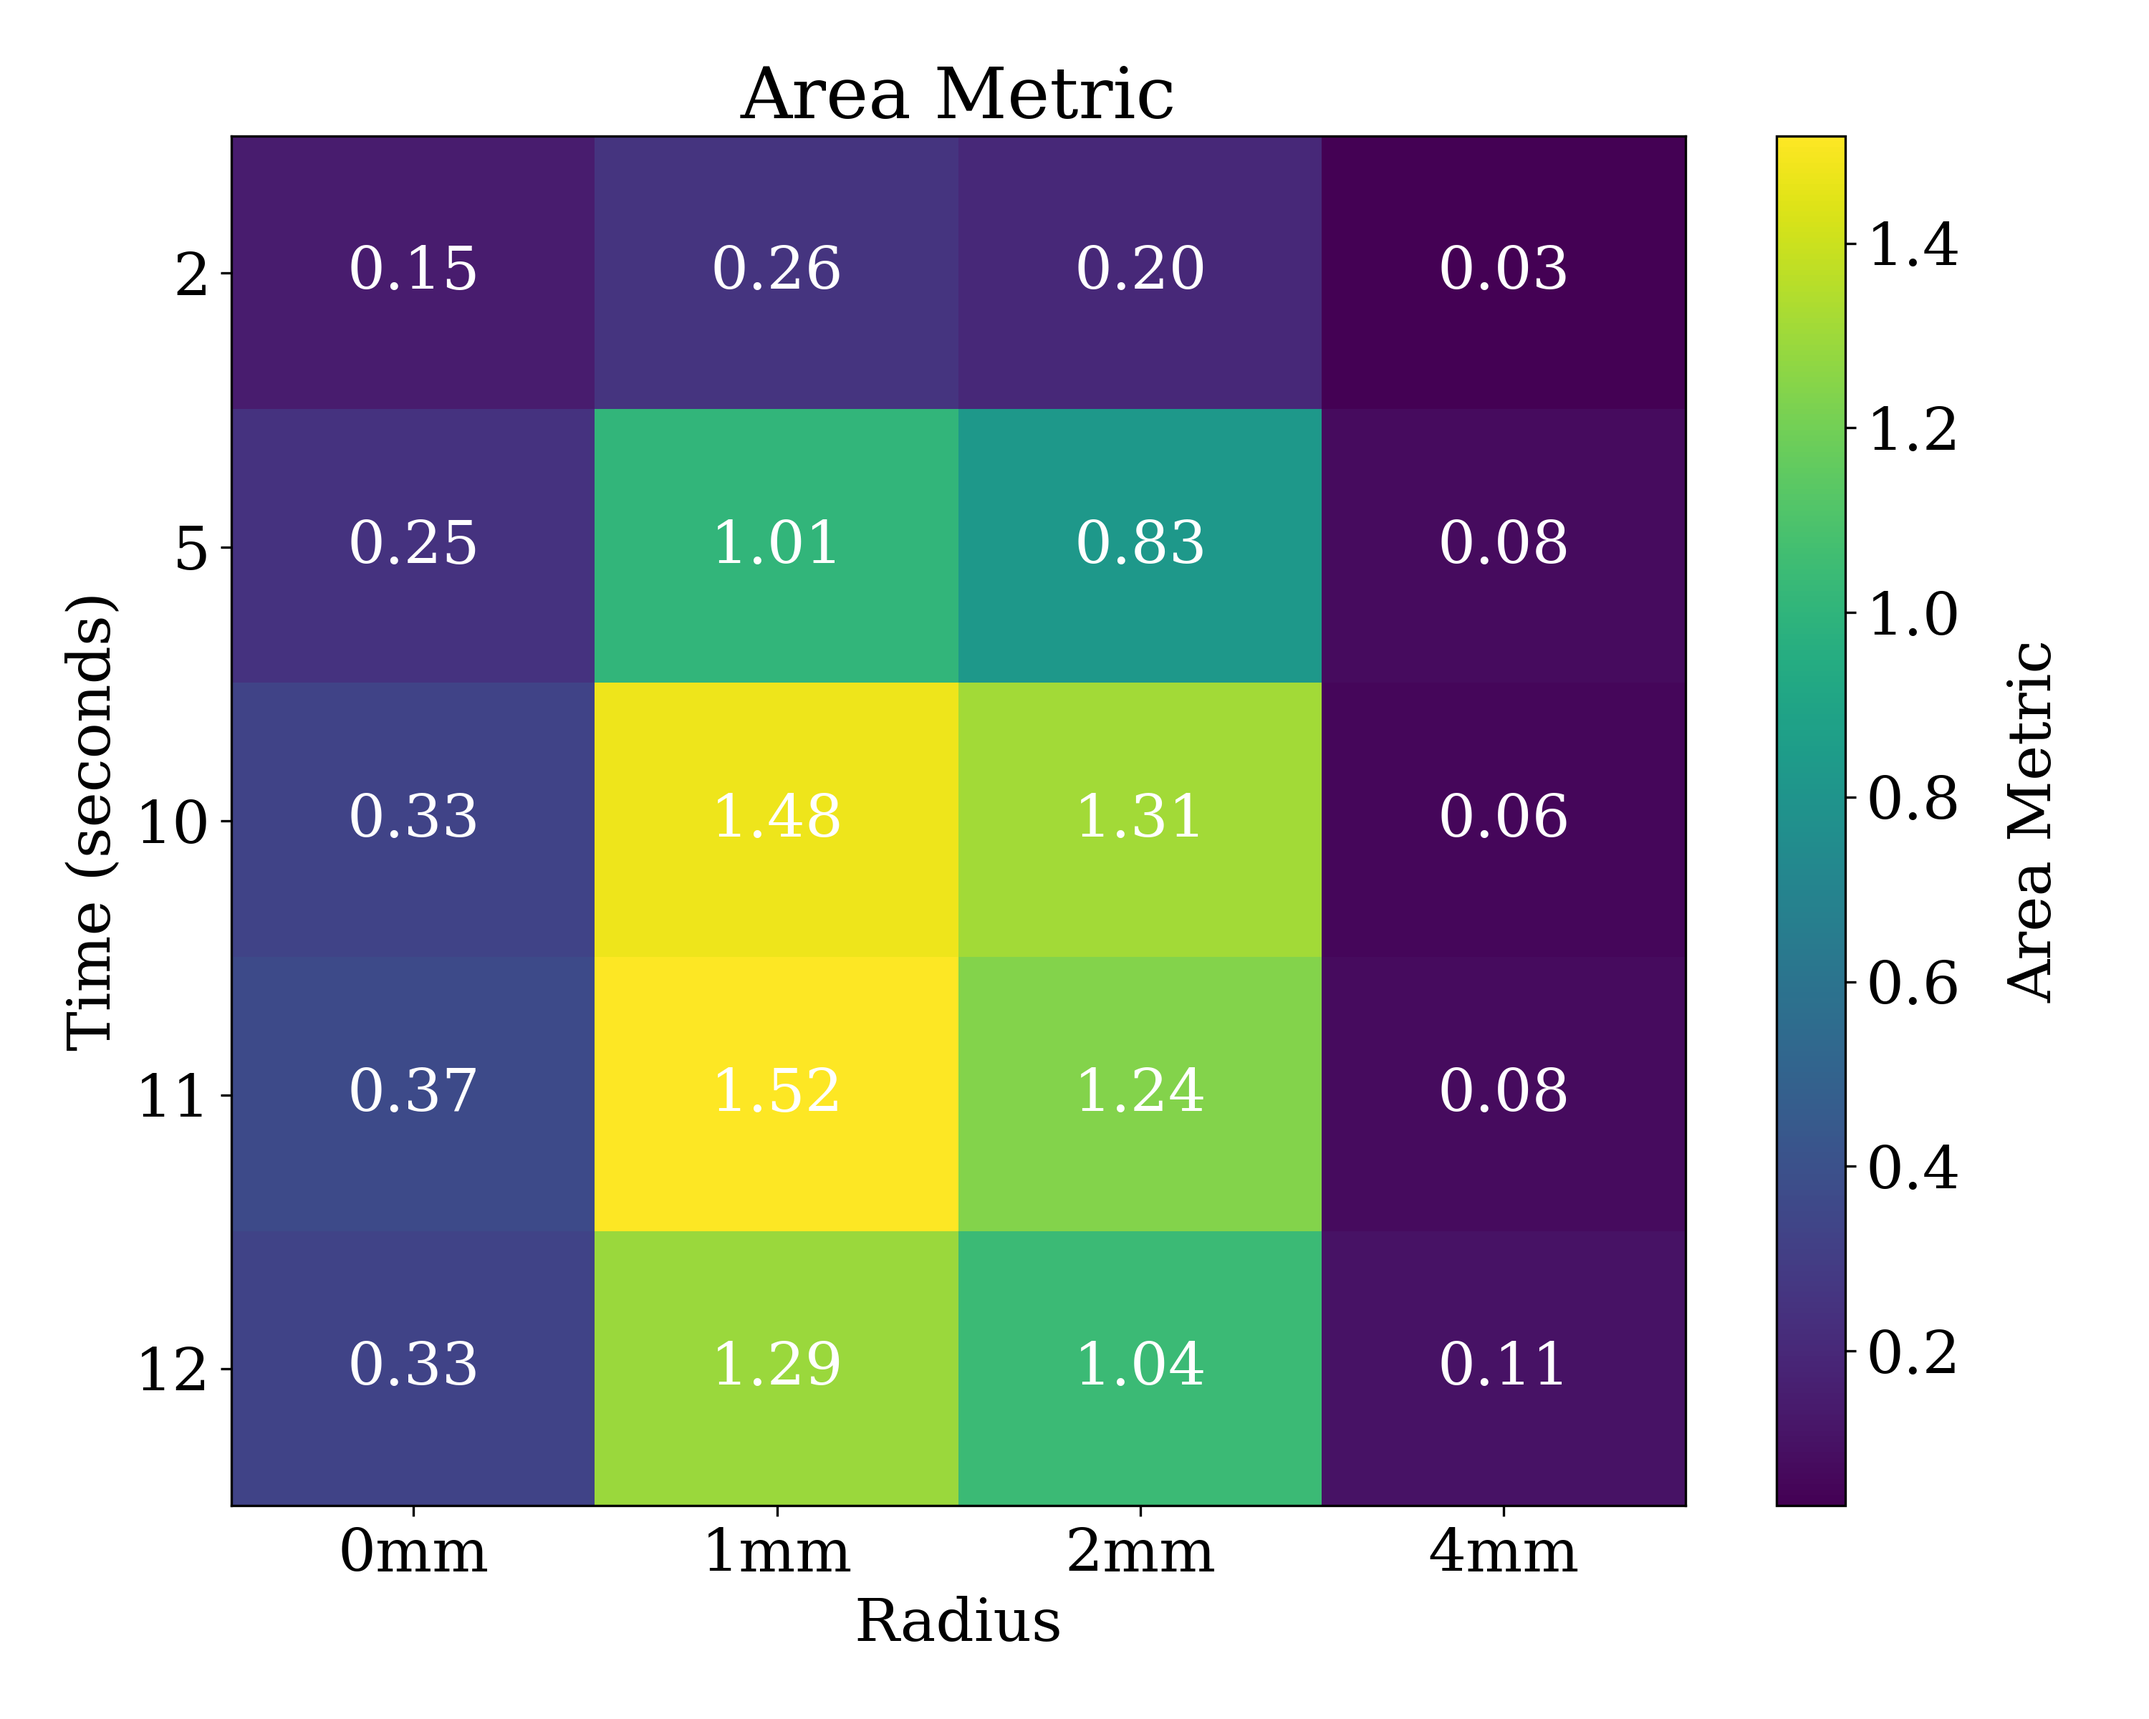
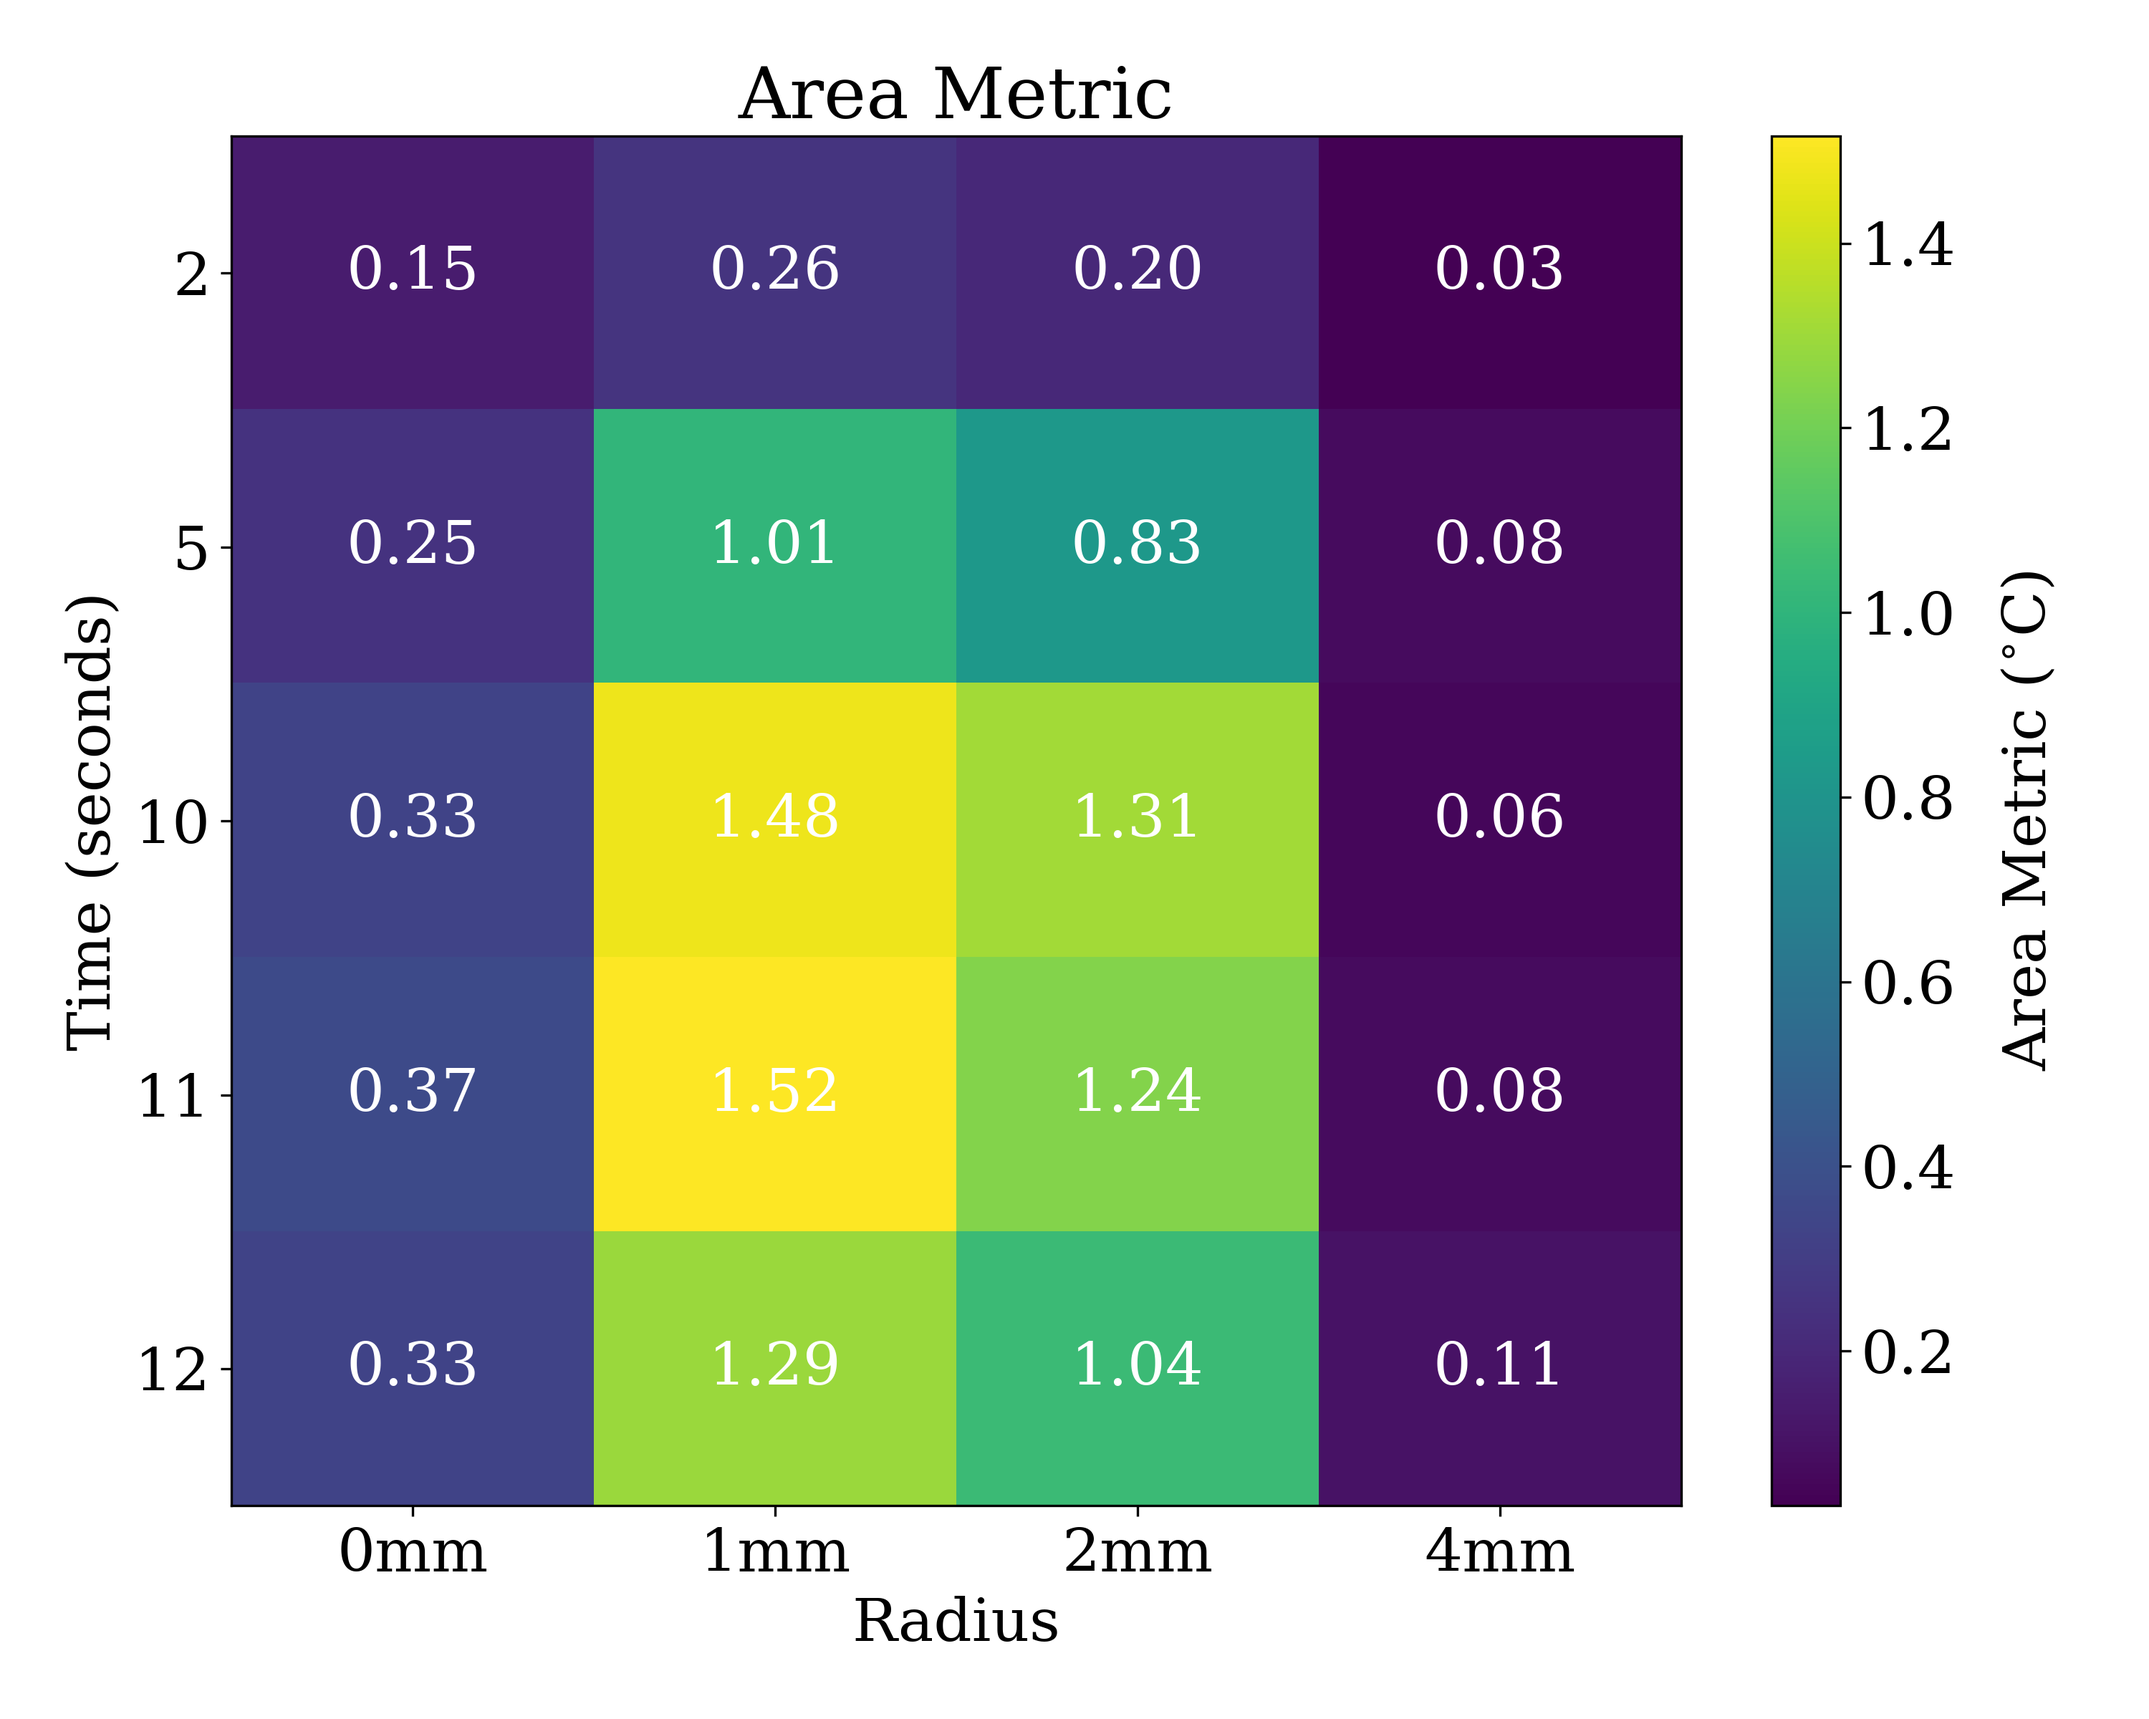
updated label on heatmap

diff --git a/hafm/validation/ci_ti.py b/hafm/validation/ci_ti.py
@@ -345,11 +345,11 @@ for target_time in target_times[1:]:
             dT = T[idx] - T0
             exp_values.append(dT)
         # print(f'exp_values = {exp_values}')
-        area = area_metric_ecdf(exp_values, sim_values, normalize=True)
+        area = area_metric_ecdf(exp_values, sim_values, normalize=False)
         area_rows.append({"Time": target_time,"Radius": loc,"Area Metric": area})
 area_df = pd.DataFrame(area_rows)
 # area_df.to_csv("areaMetric_temperature_rise_by_time.csv", index=False)
-area_df.to_csv("areaMetric_temperature_rise_by_time_normalizedavgExpPercent.csv", index=False)
+area_df.to_csv("areaMetric_temperature_rise_by_time.csv", index=False)
 # print(area_df)
 
 heatmap_data = area_df.pivot(index="Time",columns="Radius",values="Area Metric")
@@ -359,8 +359,8 @@ heatmap_data = heatmap_data.rename(columns={"R0": "0mm","R1": "1mm","R2": "2mm",
 plt.figure(figsize=(10, 8))
 im = plt.imshow(heatmap_data.values,aspect="auto",origin="upper")
 cbar = plt.colorbar(im)
-# cbar.set_label("Area Metric",rotation=90,labelpad=15)
-cbar.set_label("Normalized Area Metric (%)",rotation=90,labelpad=15)
+cbar.set_label(r"Area Metric ($^{\circ}$C)",rotation=90,labelpad=15)
+# cbar.set_label("Normalized Area Metric (%)",rotation=90,labelpad=15)
 # cbar.set_label("Normalized Area Metric",rotation=90,labelpad=15)
 plt.xticks(np.arange(len(heatmap_data.columns)),heatmap_data.columns)
 plt.yticks(np.arange(len(heatmap_data.index)),heatmap_data.index)
@@ -371,7 +371,7 @@ for i in range(heatmap_data.shape[0]):
     for j in range(heatmap_data.shape[1]):
         plt.text(j,i,f"{heatmap_data.values[i, j]:.2f}",ha="center",va="center",color="white")
 plt.tight_layout()
-plt.savefig("figures/AreaMetric_HeatMap_normalizedavgExpPercent.png", dpi=300)
+plt.savefig("figures/AreaMetric_HeatMap.png", dpi=300)
 plt.show()
 
 
